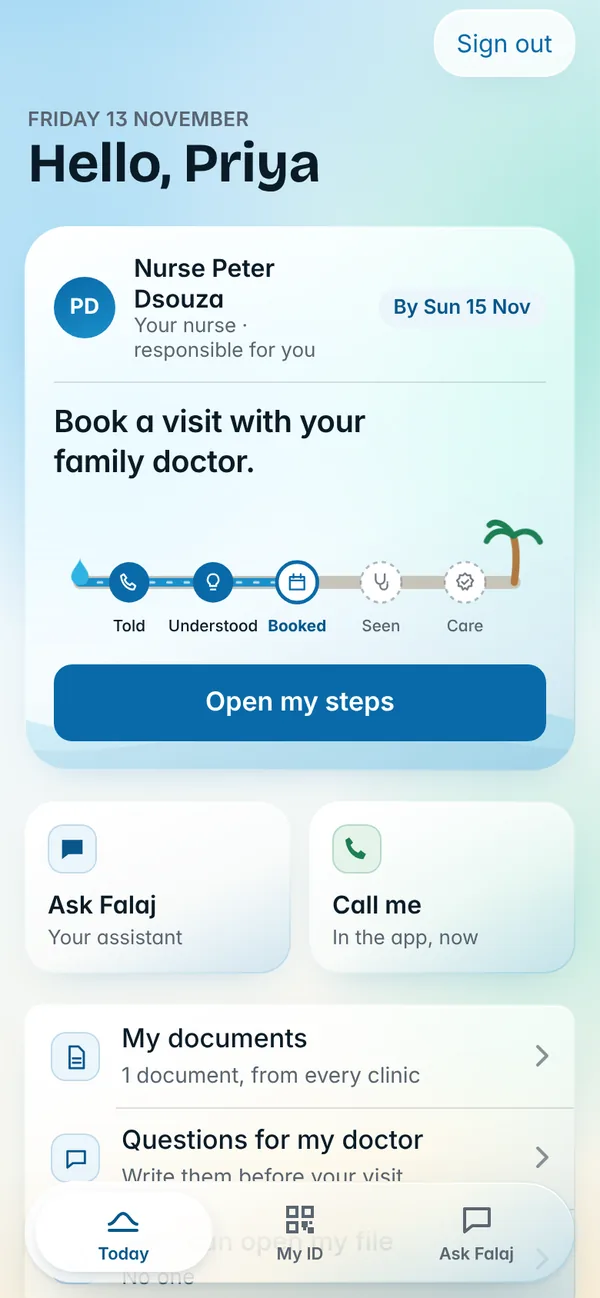
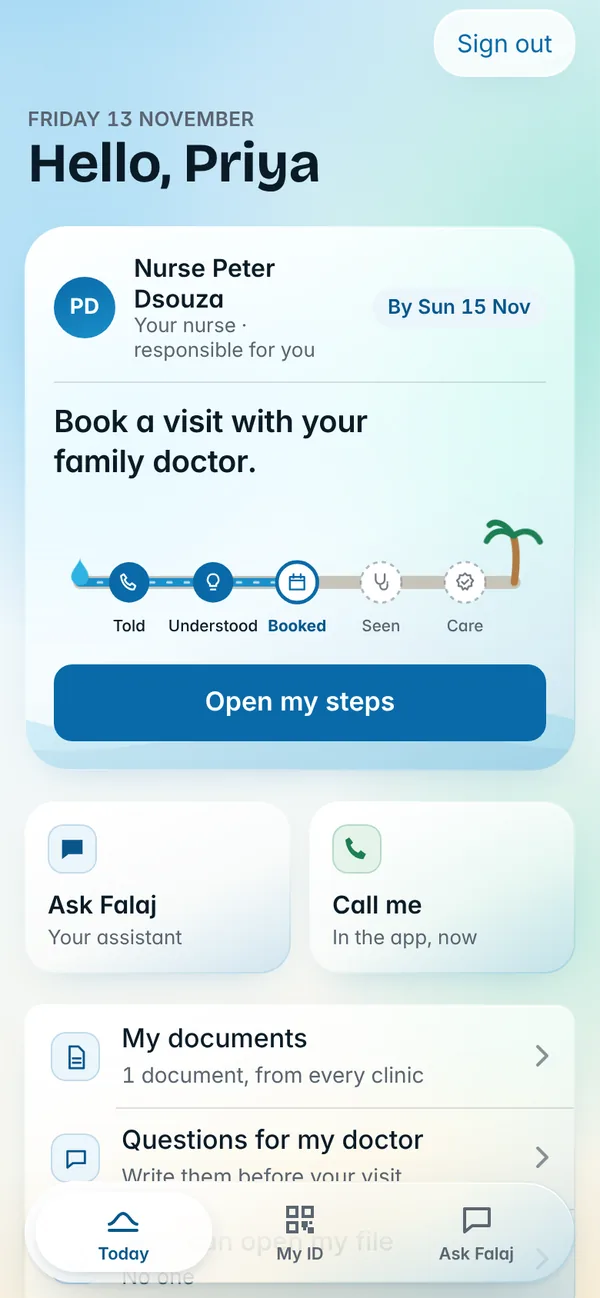
For a medical jury: an SBAR handover when a doctor opens a file (built from the file and the fixed rules, never by AI), a care timeline that replays the journey on the map, a cooler and more solid room for clinicians, figures that line up; safety fix: a result that must be told in person is never sh
Claude-Session: https://claude.ai/code/session_01NvQmsxxT7Hv8ExqcSoyVTJ

diff --git a/app.html b/app.html
@@ -172,6 +172,7 @@ import { qrSvg } from './core/qr.mjs';
 import { healthId, findPatient, careHistory, careMapHtml, historyHtml, routeOf, FACILITIES, CARE_MAP_CSS, parseHealthId, passCode, passSecret, passSecondsLeft, checkPass, lookupLinkWithCode, activeGrant, grantAccess, askAccess, pendingAsk, answerAsk, removeGrant, GRANT_HOURS } from './core/history.mjs';
 import { contextOf, reply, documentsOf, callTurn, nextStep, promiseOf, nudgeNote, happenedNote, careTeamOf } from './core/assistant.mjs';
 import { checkpointFor, doCheckpoint } from './core/checkpoint.mjs';
+import { handoverOf, timelineOf } from './core/handover.mjs';
 import { workflowHtml } from './core/workflow.mjs';
 import { requestNurse, isoDay } from './core/cases.mjs';
 import { resultText } from './core/programmes.mjs';
@@ -285,6 +286,7 @@ function render() {
   const q = new URLSearchParams(location.search);
   if (q.get('as') && staffOf(q.get('as'))) { store.set('falaj.app.user', { kind: 'staff', id: q.get('as') }); history.replaceState(null, '', location.pathname + location.hash); }   // coming from the care team website
   const u = user(), r = route();
+  document.body.dataset.role = u ? u.kind : 'guest';   // clinicians get a cooler, more solid room
   closeLayer();
   $('#tabs').hidden = true;
   if (r.k === 'find' && r.v) { const [pid, pc = ''] = r.v.split('.'); sess.set('falaj.app.pending', pid); sess.set('falaj.app.pcode', pc); }
@@ -356,8 +358,10 @@ function notifyAccess(c) {
   seenAccess = key;
 }
 function seeSheet(c) {
-  const hist = careHistory(c, state.staff);
-  sheet(`<h2>What a doctor sees</h2><p>Only after your live code or your yes, and only for ${GRANT_HOURS} hours: the places you were cared for, and your records there. Never your chats with Falaj or your saved questions.</p>${careMapHtml(hist)}${historyHtml(hist)}<button class="btn-tint" data-close>Close</button>`);
+  // SAFETY: a result that must be told by a person is never shown to the patient here first.
+  const hidden = contextOf(c).waitingForPerson;
+  const hist = careHistory(c, state.staff).map((h) => (hidden && h.now ? { ...h, detail: /screening|mammogram|HbA1c|FIT/i.test(h.title) ? 'Your care team will tell you this result in person.' : '' } : h));
+  sheet(`<h2>What a doctor sees</h2><p>Only after your live code or your yes, and only for ${GRANT_HOURS} hours: the places you were cared for, and your records there. Never your chats with Falaj or your saved questions.</p>${hidden ? '<p class="when late" style="margin:0">Your new result is not shown here until a nurse has told you in person.</p>' : ''}${careMapHtml(hist)}${historyHtml(hist)}<button class="btn-tint" data-close>Close</button>`);
 }
 function patientHome(c) {
   const ctx = contextOf(c), a = c.assist || {}, v = c.slot || c.hold, docs = documentsOf(c), acc = c.access || [];
@@ -682,23 +686,42 @@ async function scan() {
 }
 
 // ---------- the care map: every place, the water between them, the palm where care is now ----------
-let mapSel = '', mapView = 'history';
+let mapSel = '', mapView = 'history', tlAt = 0, tlTimer = null, tlPlayed = '';
 function mapScreen(s, c) {
   const hist = careHistory(c, state.staff), route = routeOf(hist), last = route[route.length - 1];
-  const places = [...new Set(route)];
+  const places = [...new Set(route)], tl = timelineOf(c, state.staff);
   const wf = mapView === 'falaj' ? workflowHtml(c, { staff: state.staff, today: TODAY, resultText: resultText(c) }).html : '';
   paint(`<div class="nav"><a class="back" href="#find">‹ Find</a>${signOutBtn}</div>
     <div class="ptcard"><span class="av" aria-hidden="true">${esc(initials(c.patient.name))}</span><span><b>${esc(c.patient.name)}</b><small>${c.patient.age} · ${esc(LANG[c.patient.language] || c.patient.language)} · ${esc(healthId(c))}</small></span></div>
     ${(() => { const g = activeGrant(c, s.id); return g ? `<p class="keybar">${I.key}<span>Opened with ${esc(first(c))}'s ${g.how === 'live code' ? 'live code' : 'yes'} · ends ${esc(fmtDay(g.until))} ${esc(time(g.until))}</span></p>` : ''; })()}
     ${(() => { const cp = checkpointFor(c, s); return cp ? `<section class="askcard cp" aria-labelledby="cpt"><span class="tile">${I.steth}</span><div><b id="cpt">${esc(cp.title)}</b><small>${esc(cp.text)}</small><div class="stack"><button class="btn-fill" id="cp-do">${esc(cp.button)}</button></div></div></section>` : ''; })()}
+    ${(() => { const h = handoverOf(c, state.staff, TODAY); const rowh = (k, name, txt, cls = '') => `<div class="sb-r${cls}"><dt><abbr title="${name}">${k}</abbr><span>${name}</span></dt><dd>${esc(txt)}</dd></div>`;
+      return `<section class="sbar" aria-labelledby="sbh"><h2 id="sbh">Handover</h2><dl>${rowh('S', 'Situation', h.s)}${rowh('B', 'Background', h.b)}${rowh('A', 'Assessment, by rule', h.a, h.late ? ' late' : '')}${rowh('R', 'Recommendation', h.r)}</dl><p class="sb-f">From the file and Falaj's fixed rules. Not a diagnosis. No AI wrote this.</p></section>`; })()}
     ${careMapHtml(hist, { selected: mapSel })}
-    <section class="status2" aria-labelledby="cn"><span class="pill" id="cn">Care is now at ${esc(FACILITIES[last].name)}</span><p><small style="display:block;font-size:13px;color:var(--g-2)">What ${esc(first(c))} is told</small>${esc(nextStep(contextOf(c)))}</p>${(() => { const pr = promiseOf(c, state.staff, TODAY); return pr && pr.keeper ? `<p class="resp${pr.late ? ' late' : ''}"><b>Responsible:</b> ${esc(pr.keeper.name)}${pr.late ? ` · ${pr.daysLate} ${pr.daysLate === 1 ? 'day' : 'days'} late` : pr.by ? ` · by ${esc(fmtDay(pr.by))}` : ''}</p>` : ''; })()}<a class="btn-tint" href="team.html?as=${s.id}&c=${c.id}">Open in my worklist</a></section>
+    ${(() => { const n = tl.items.length; return `<div class="tl" role="group" aria-label="Care timeline: ${n} records in order"><button class="tl-play" id="tl-play" aria-label="Replay the journey"><svg width="16" height="16" viewBox="0 0 24 24" aria-hidden="true"><path d="M7 4l13 8-13 8z" fill="currentColor"/></svg></button>
+      <ol class="tl-track">${tl.items.map((it, i) => `<li><button data-tl="${i}" aria-label="${esc(it.date)}: ${esc(it.title)}, ${esc(it.place)}"></button></li>`).join('')}</ol>
+      <p class="tl-cap" id="tl-cap" aria-live="polite"></p></div>`; })()}
+    <section class="status2" aria-labelledby="cn"><span class="pill" id="cn">Care is now at ${esc(FACILITIES[last].name)}</span><p><small style="display:block;font-size:13px;color:var(--g-2)">What ${esc(first(c))} is told</small>${esc(nextStep(contextOf(c)))}</p><a class="btn-tint" href="team.html?as=${s.id}&c=${c.id}">Open in my worklist</a></section>
     <div class="seg" role="group" aria-label="Show"><button data-v="history" aria-pressed="${mapView === 'history'}">History · ${hist.length}</button><button data-v="falaj" aria-pressed="${mapView === 'falaj'}">This result</button></div>
     ${mapView === 'falaj' ? wf : `${mapSel ? `<button class="linkbtn" id="allr" style="align-self:flex-start;padding:0">${esc(FACILITIES[mapSel].name)} only · show all</button>` : ''}<div id="hh">${historyHtml(hist, { only: mapSel })}</div>`}
     <p class="foot2">Invented records and places. ${esc(first(c))} sees that you opened this file and can remove your access.</p>`);
   bindOut();
   document.querySelectorAll('.cm-dot').forEach((b) => { b.onclick = () => { mapSel = mapSel === b.dataset.fac ? '' : b.dataset.fac; mapView = 'history'; mapScreen(s, c); const h = $('#hh'); if (h) h.scrollIntoView({ block: 'start' }); }; });
   document.querySelectorAll('[data-v]').forEach((b) => { b.onclick = () => { mapView = b.dataset.v; mapScreen(s, c); }; });
+  // the care timeline: step through the journey; places not yet visited at that date are dimmed on the map
+  const setAt = (i) => {
+    tlAt = Math.max(0, Math.min(tl.items.length - 1, i)); const it = tl.items[tlAt];
+    document.querySelectorAll('[data-tl]').forEach((b, k) => { b.classList.toggle('past', k <= tlAt); if (k === tlAt) b.setAttribute('aria-current', 'true'); else b.removeAttribute('aria-current'); });
+    document.querySelectorAll('.cm-dot').forEach((d) => { d.classList.toggle('dim', tl.firstAt[d.dataset.fac] > tlAt); d.classList.toggle('at', d.dataset.fac === it.fac); });
+    const cap = $('#tl-cap'); if (cap) cap.innerHTML = `<b>${esc(it.date)}</b> ${esc(it.title)}<small>${esc(it.place)}${it.now ? ' · this result' : ''}</small>`;
+    const rows = document.querySelectorAll('#hh .hist li'); if (rows.length === tl.items.length) rows.forEach((r, k) => r.classList.toggle('at', k === tl.items.length - 1 - tlAt));
+  };
+  const stop = () => { clearInterval(tlTimer); tlTimer = null; const pb = $('#tl-play'); if (pb) { pb.classList.remove('on'); pb.setAttribute('aria-label', 'Replay the journey'); } };
+  const play = () => { stop(); const pb = $('#tl-play'); pb.classList.add('on'); pb.setAttribute('aria-label', 'Stop the replay'); setAt(0); tlTimer = setInterval(() => { if (!$('#tl-play') || tlAt >= tl.items.length - 1) return stop(); setAt(tlAt + 1); }, 850); };
+  document.querySelectorAll('[data-tl]').forEach((b) => { b.onclick = () => { stop(); setAt(+b.dataset.tl); }; });
+  $('#tl-play').onclick = () => (tlTimer ? stop() : play());
+  clearInterval(tlTimer); tlTimer = null;
+  if (tlPlayed !== c.id && !matchMedia('(prefers-reduced-motion: reduce)').matches) { tlPlayed = c.id; play(); } else setAt(tl.items.length - 1);
   const cpd = $('#cp-do'); if (cpd) cpd.onclick = () => { try { const x = caseOf(c.id), cp = doCheckpoint(state, x, s); save(); toast(cp.kind === 'accept' ? `You are now responsible for ${first(x)}` : `Visit recorded. ${first(x)}'s falaj moved to "Seen".`); render(); } catch (e) { toast(e.message || 'That could not be recorded'); } };
   const all = $('#allr'); if (all) all.onclick = () => { mapSel = ''; mapScreen(s, c); };
 }

diff --git a/design/glass.css b/design/glass.css
@@ -274,3 +274,41 @@ body:is([data-falaj-page=app],[data-falaj-page=me]){--glass:rgba(255,255,255,.8)
 .links2 .textlink{border:0;background:none;font:inherit;font-size:16px;font-weight:600;cursor:pointer;padding:0}
 .resp{margin:0;font-size:14px;color:var(--g-2)}.resp b{color:var(--g-label);font-weight:600}
 .resp.late{color:var(--care-wait);font-weight:600}.resp.late b{color:var(--care-wait)}
+
+/* ---- the clinician's handover (SBAR) and the care timeline ---- */
+.sbar{border-radius:var(--r-card);padding:14px 16px 12px;display:flex;flex-direction:column;gap:10px;background:var(--glass-fill) padding-box,var(--glass-rim) border-box;border:1px solid transparent;box-shadow:var(--glass-sh);backdrop-filter:var(--glass-blur);-webkit-backdrop-filter:var(--glass-blur)}
+.sbar h2{margin:0;font-size:13px;font-weight:700;letter-spacing:.4px;text-transform:uppercase;color:var(--g-2);font-family:var(--text)}
+.sbar dl{margin:0;display:flex;flex-direction:column}
+.sb-r{display:grid;grid-template-columns:34px 1fr;column-gap:12px;padding:9px 0;border-top:1px solid var(--g-sep)}
+.sb-r:first-child{border-top:0;padding-top:2px}
+.sb-r dt{display:contents}
+.sb-r abbr{grid-row:1 / span 2;width:34px;height:34px;border-radius:10px;display:grid;place-items:center;background:var(--water-600);color:var(--on-accent);font-weight:700;font-size:16px;text-decoration:none;font-family:var(--display)}
+.sb-r dt span{font-size:12px;font-weight:700;letter-spacing:.3px;text-transform:uppercase;color:var(--g-2);align-self:end}
+.sb-r dd{margin:1px 0 0;font-size:15px;line-height:1.45;color:var(--g-label)}
+.sb-r.late abbr{background:var(--care-wait);color:#fff}
+.sb-r.late dd{font-weight:600}
+@media (prefers-color-scheme:dark){.sb-r.late abbr{color:#2b1a00}}
+.sb-f{margin:0;font-size:12px;color:var(--g-2)}
+.tl{display:grid;grid-template-columns:44px 1fr;column-gap:10px;row-gap:6px;align-items:center;margin-top:-8px}
+.tl-play{width:44px;height:44px;border-radius:50%;border:1px solid var(--glass-edge);background:var(--glass-hi);color:var(--water-700);display:grid;place-items:center;cursor:pointer;box-shadow:var(--glass-sh)}
+.tl-play.on{background:var(--water-600);color:var(--on-accent)}
+.tl-track{list-style:none;margin:0;padding:0;display:flex;align-items:center;position:relative;min-width:0}
+.tl-track::before{content:"";position:absolute;left:10px;right:10px;top:50%;height:3px;margin-top:-1.5px;border-radius:2px;background:color-mix(in srgb,var(--g-2) 30%,transparent)}
+.tl-track li{flex:1;display:grid;place-items:center;position:relative}
+.tl-track button{width:100%;min-width:24px;height:44px;border:0;background:none;padding:0;cursor:pointer;position:relative;display:grid;place-items:center}
+.tl-track button::after{content:"";width:12px;height:12px;border-radius:50%;background:var(--g-card,#fff);border:2.5px solid color-mix(in srgb,var(--g-2) 55%,transparent);transition:transform .25s cubic-bezier(.3,1.4,.5,1),background-color .2s,border-color .2s}
+.tl-track button.past::after{background:var(--water-600);border-color:var(--water-600)}
+.tl-track button[aria-current=true]::after{transform:scale(1.6);background:#fff;border-color:var(--water-600);box-shadow:0 0 0 5px color-mix(in srgb,var(--water-400) 35%,transparent)}
+.tl-track button:focus-visible{outline:3px solid var(--water-600);outline-offset:-4px;border-radius:10px}
+.tl-cap{grid-column:1 / -1;margin:0;font-size:15px;line-height:1.35;color:var(--g-label);min-height:42px}
+.tl-cap b{font-weight:700;margin-inline-end:6px;font-variant-numeric:tabular-nums}
+.tl-cap small{display:block;font-size:13px;color:var(--g-2)}
+.cm-dot{transition:opacity .35s ease,transform .35s cubic-bezier(.3,1.4,.5,1)}
+.cm-dot.dim{opacity:.28}
+.cm-dot.at i{box-shadow:0 0 0 6px rgba(246,192,99,.55);transform:scale(1.25)}
+.cm-dot i{transition:transform .3s cubic-bezier(.3,1.4,.5,1),box-shadow .3s}
+body:is([data-falaj-page=app],[data-falaj-page=me]) .hist li.at{background:color-mix(in srgb,var(--water-400) 16%,transparent)}
+.keybar svg{animation:keyturn .7s cubic-bezier(.3,1.4,.5,1) .25s both}
+@keyframes keyturn{from{transform:rotate(-70deg) scale(.6);opacity:0}}
+#app.enter > *:nth-child(6){animation-delay:.15s}#app.enter > *:nth-child(7){animation-delay:.18s}#app.enter > *:nth-child(8){animation-delay:.21s}#app.enter > *:nth-child(9){animation-delay:.24s}
+@media (prefers-reduced-motion:reduce){.keybar svg,.cm-dot,.cm-dot i,.tl-track button::after{animation:none !important;transition:none !important}}

diff --git a/sw.js b/sw.js
@@ -1,9 +1,9 @@
 // Falaj service worker: lets the app open offline and be installed.
 // Strategy: network first (so new versions show immediately), fall back to the saved copy when offline.
 // Bump VERSION on every release so old saved copies are cleared.
-const VERSION = 'jissr-v78';
+const VERSION = 'jissr-v79';
 const SHELL = [
-  '/design/tokens.css', '/design/system.css', '/', '/index.html', '/loop.html', '/team.html', '/me.html', '/jury.html', '/ios.css', '/verify.html', '/family.html', '/app.html', '/duo.html', '/styles.css', '/theme.css', '/design/site.css', '/app-shell.css', '/media/app-today.webp', '/media/app-map.webp', '/manifest.webmanifest', '/core/rules.mjs', '/core/cases.mjs', '/core/data.mjs', '/core/store.mjs', '/core/templates.mjs', '/core/ui.mjs', '/core/fhir.mjs', '/core/programmes.mjs', '/core/pwa.mjs', '/core/art.mjs', '/core/qr.mjs', '/core/proof.mjs', '/core/family.mjs', '/core/passport.mjs', '/core/flow.mjs', '/core/agents.mjs', '/core/channel.mjs', '/core/workflow.mjs', '/core/history.mjs', '/core/assistant.mjs', '/core/steps.mjs', '/core/checkpoint.mjs', '/core/glass.mjs', '/design/glass.css', '/design/glass-all.css', '/icons/icon.svg', '/icons/icon-192.png', '/icons/icon-512.png', '/fonts/readex-pro-latin-400-normal.woff2', '/fonts/readex-pro-latin-500-normal.woff2', '/fonts/readex-pro-latin-600-normal.woff2', '/fonts/readex-pro-arabic-400-normal.woff2', '/fonts/readex-pro-arabic-500-normal.woff2', '/fonts/readex-pro-arabic-600-normal.woff2', '/fonts/inter-latin-400-normal.woff2', '/fonts/inter-latin-500-normal.woff2', '/fonts/inter-latin-600-normal.woff2', '/fonts/bricolage-grotesque-latin-600-normal.woff2', '/fonts/bricolage-grotesque-latin-700-normal.woff2', '/fonts/ibm-plex-sans-arabic-arabic-400-normal.woff2', '/fonts/ibm-plex-sans-arabic-arabic-500-normal.woff2', '/fonts/ibm-plex-sans-arabic-arabic-600-normal.woff2', '/fonts/ibm-plex-sans-arabic-arabic-700-normal.woff2',
+  '/design/tokens.css', '/design/system.css', '/', '/index.html', '/loop.html', '/team.html', '/me.html', '/jury.html', '/ios.css', '/verify.html', '/family.html', '/app.html', '/duo.html', '/styles.css', '/theme.css', '/design/site.css', '/app-shell.css', '/media/app-today.webp', '/media/app-map.webp', '/manifest.webmanifest', '/core/rules.mjs', '/core/cases.mjs', '/core/data.mjs', '/core/store.mjs', '/core/templates.mjs', '/core/ui.mjs', '/core/fhir.mjs', '/core/programmes.mjs', '/core/pwa.mjs', '/core/art.mjs', '/core/qr.mjs', '/core/proof.mjs', '/core/family.mjs', '/core/passport.mjs', '/core/flow.mjs', '/core/agents.mjs', '/core/channel.mjs', '/core/workflow.mjs', '/core/history.mjs', '/core/assistant.mjs', '/core/steps.mjs', '/core/checkpoint.mjs', '/core/glass.mjs', '/core/handover.mjs', '/design/glass.css', '/design/glass-all.css', '/icons/icon.svg', '/icons/icon-192.png', '/icons/icon-512.png', '/fonts/readex-pro-latin-400-normal.woff2', '/fonts/readex-pro-latin-500-normal.woff2', '/fonts/readex-pro-latin-600-normal.woff2', '/fonts/readex-pro-arabic-400-normal.woff2', '/fonts/readex-pro-arabic-500-normal.woff2', '/fonts/readex-pro-arabic-600-normal.woff2', '/fonts/inter-latin-400-normal.woff2', '/fonts/inter-latin-500-normal.woff2', '/fonts/inter-latin-600-normal.woff2', '/fonts/bricolage-grotesque-latin-600-normal.woff2', '/fonts/bricolage-grotesque-latin-700-normal.woff2', '/fonts/ibm-plex-sans-arabic-arabic-400-normal.woff2', '/fonts/ibm-plex-sans-arabic-arabic-500-normal.woff2', '/fonts/ibm-plex-sans-arabic-arabic-600-normal.woff2', '/fonts/ibm-plex-sans-arabic-arabic-700-normal.woff2',
 ];
 
 self.addEventListener('install', (e) => {

diff --git a/jury.html b/jury.html
@@ -56,6 +56,7 @@
       <li><b>The doctor scans it and types the patient's name,</b> the same "right patient" check clinicians already do.</li>
       <li><b>With the live code, the care map opens at once.</b> Without it (an ID read over the phone), the patient gets a request and must say yes.</li>
       <li><b>The patient sees who can open their file,</b> until when, and can remove access. Every opening is listed.</li>
+      <li><b>The doctor gets a handover, not a pile of records.</b> One card in SBAR order (Situation, Background, Assessment, Recommendation), built from the file and Falaj's fixed rules, never written by AI. Under it, a timeline replays the patient's journey place by place.</li>
       <li><b>The scan is also a checkpoint.</b> After opening the file, the doctor sees the patient's open step and can record it in one tap: a visit, or a referral sent to them.</li>
     </ol>
     <p class="muted" style="margin-top:8px"><b>In this demo</b> there is no server: the code is checked on the same device, sign-in is simulated and the history is invented, so play both roles on one device. <b>A real service</b> would verify a signed, single-use code on a server, sign clinicians in with their hospital account, and read the history from the health information exchange.</p>

diff --git a/design/glass-all.css b/design/glass-all.css
@@ -132,3 +132,11 @@ body[data-falaj-surface] :is(.qa,.scanbig,.btn-tint,.wide,.btn,.btn-fill,.light)
   :root{--glass-fill:linear-gradient(165deg,rgba(255,255,255,.94),rgba(255,255,255,.88))}
   @media (prefers-color-scheme:dark){:root{--glass-fill:linear-gradient(165deg,rgba(28,38,50,.95),rgba(22,30,40,.92))}}
 }
+
+/* clinical precision: figures line up everywhere */
+body[data-falaj-surface]{font-variant-numeric:tabular-nums}
+/* the clinician's room inside the app: cooler light and a more solid glass, for reading fast in a bright ward */
+body[data-role=staff]{--bd1:#8fc4ea;--bd2:#a3d6e4;--bd3:#e6edf6;--bd-top:#dfeaf5;--bd-mid:#eef4f9;--bd-low:#f3f6fa;
+  --glass-fill:linear-gradient(165deg,rgba(255,255,255,.9) 0%,rgba(255,255,255,.76) 45%,rgba(255,255,255,.68) 100%)}
+@media (prefers-color-scheme:dark){body[data-role=staff]{--bd1:#0c3c5e;--bd2:#0b3f4a;--bd3:#141c26;--bd-top:#030d15;--bd-mid:#050b12;--bd-low:#060c12;
+  --glass-fill:linear-gradient(165deg,rgba(52,64,80,.72) 0%,rgba(32,42,54,.7) 45%,rgba(24,32,42,.68) 100%)}}

diff --git a/PITCH.md b/PITCH.md
@@ -59,6 +59,8 @@ Always true: opening a file never records care by itself, and a patient's tap ne
 
 "Every patient has one Falaj Health ID, shown as a QR code with a code that changes every minute. In any clinic the doctor scans it and types the patient's name. With the live code the care map opens; without it the patient gets a request and must say yes. The patient sees who can open their file and can remove access. The patient carries the key, so the history follows the patient, not the hospital."
 
+**For clinicians on the jury:** when the doctor opens a file they get a handover in SBAR order (Situation, Background, Assessment by rule, Recommendation), built from the file and the fixed rules, with "No AI wrote this" on it, and a timeline that replays the journey place by place.
+
 **Show it, do not explain it:** open `duo.html` ("Two phones, one screen"). Priya's phone and the doctor's phone are side by side and live: type her 6-digit code on the doctor's phone, the map opens, her phone says who opened it, then tap "Remove access" and the map closes.
 
 If asked: in the demo there is no server (the code is checked on the same device, sign-in is simulated, the history is invented). A real service verifies a signed single-use code on a server, with clinicians signed in through their hospital account and the history read from the health information exchange.
